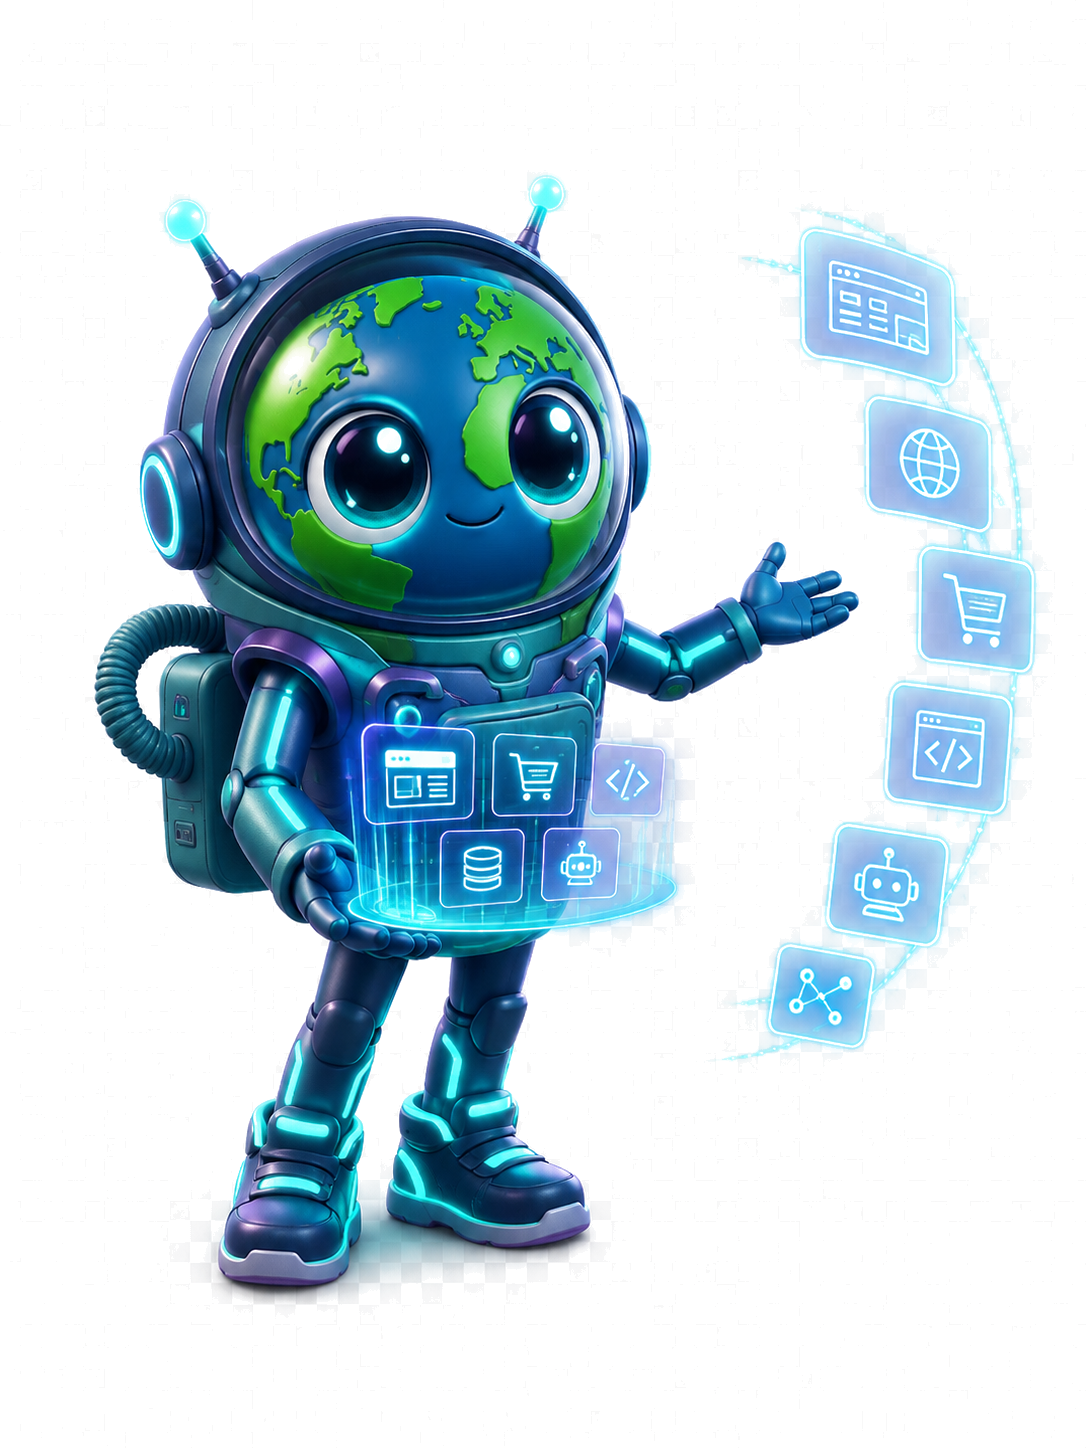
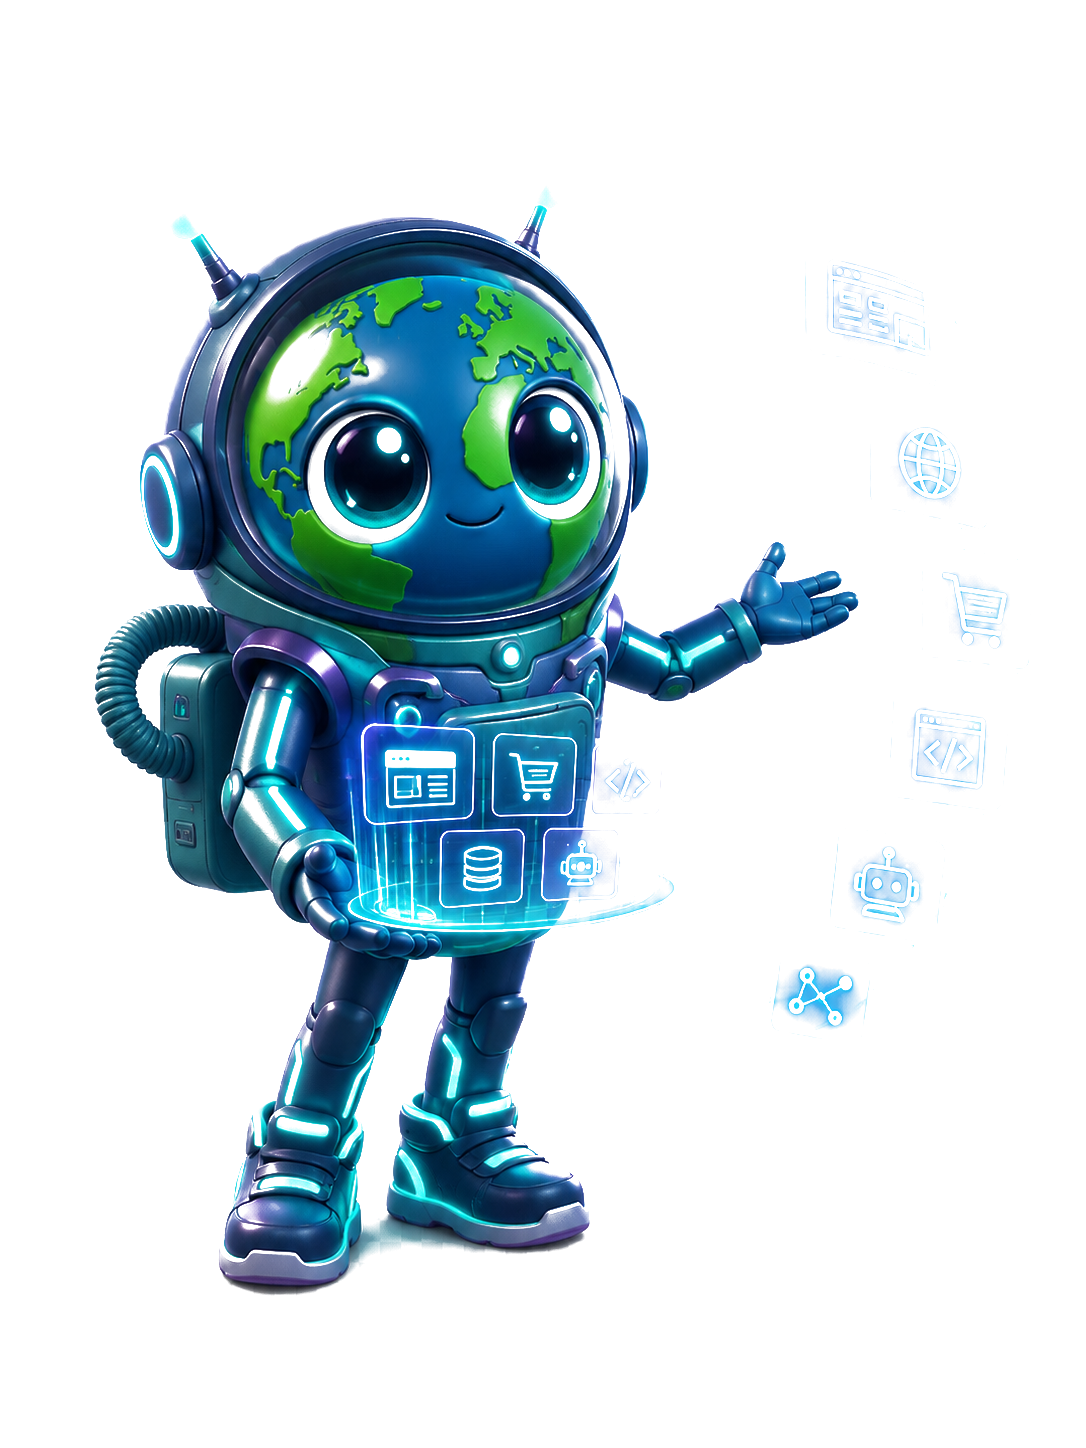
fix(web): limpa fundo do Orbi + animação flutuante moderna
- Remove fundo branco/quadriculado do orbi-tech.png (colorkey ffmpeg)
- Animação orbi-float: flutua suavemente com leve rotação (±1.5deg)
- Glow pulsante alternando entre cyan e purple
- 6s de ciclo, ease-in-out, movimento orgânico em 4 keyframes

diff --git a/apps/web/src/app/globals.css b/apps/web/src/app/globals.css
@@ -429,6 +429,30 @@
   }
 }
 
+/* Orbi mascote flutuante */
+@keyframes orbi-float {
+  0%, 100% {
+    transform: translateY(0) rotate(0deg);
+    filter: drop-shadow(0 0 20px rgba(0, 212, 255, 0.15));
+  }
+  25% {
+    transform: translateY(-12px) rotate(1.5deg);
+    filter: drop-shadow(0 0 30px rgba(0, 212, 255, 0.3));
+  }
+  50% {
+    transform: translateY(-6px) rotate(0deg);
+    filter: drop-shadow(0 0 25px rgba(139, 92, 246, 0.25));
+  }
+  75% {
+    transform: translateY(-14px) rotate(-1.5deg);
+    filter: drop-shadow(0 0 32px rgba(0, 212, 255, 0.28));
+  }
+}
+
+.animate-orbi-float {
+  animation: orbi-float 6s ease-in-out infinite;
+}
+
 /* Estilos básicos e mobile */
 html {
   background: #000;

diff --git a/apps/web/src/app/page.tsx b/apps/web/src/app/page.tsx
@@ -389,7 +389,7 @@ export default function Home() {
               <img
                 src="/orbi-tech.png"
                 alt="Orbi apresentando servicos"
-                className="mx-auto mt-8 hidden w-56 drop-shadow-[0_0_30px_rgba(0,212,255,0.2)] lg:block xl:w-64"
+                className="animate-orbi-float mx-auto mt-8 hidden w-56 lg:block xl:w-64"
               />
             </ScrollReveal>
           </div>